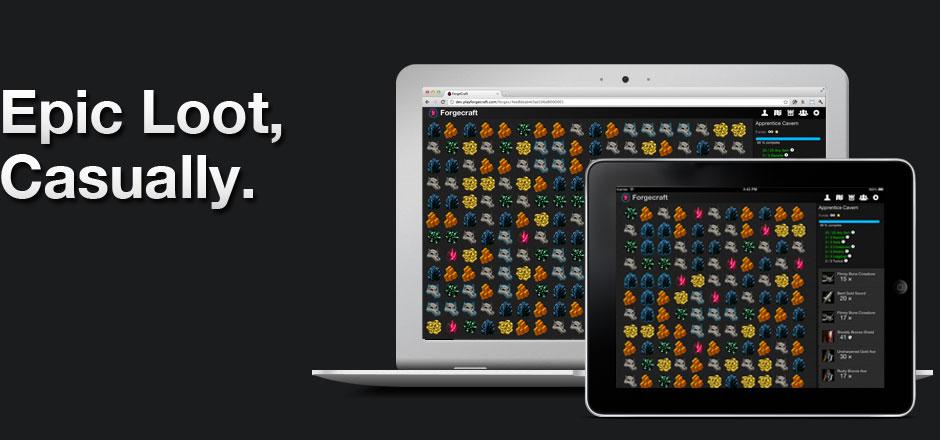
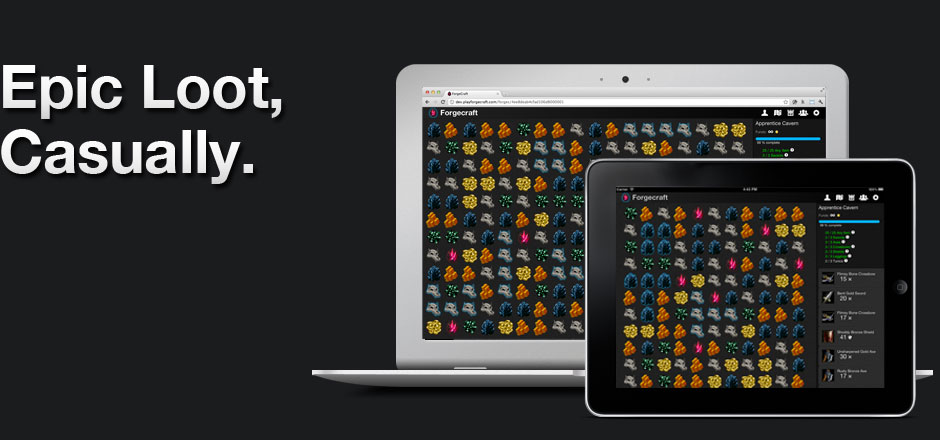
Update lead line and layout on home page

Changed region(s): [[0.0, 0.1477, 0.3085, 0.4727]]

diff --git a/app/assets/stylesheets/home.css.scss b/app/assets/stylesheets/home.css.scss
@@ -27,12 +27,18 @@ body {
 }
 
 #new_player {
-  margin-top: 225px;
-  width: 230px;
+  margin-top: 200px;
+  width: 330px;
   padding-left: 0;
 
   label {
     @include highlighted-text;
+  }
+
+  .lead {
+    line-height: 1.3em;
+    margin-bottom: 1em;
+    font-weight: bold;
   }
 }
 
